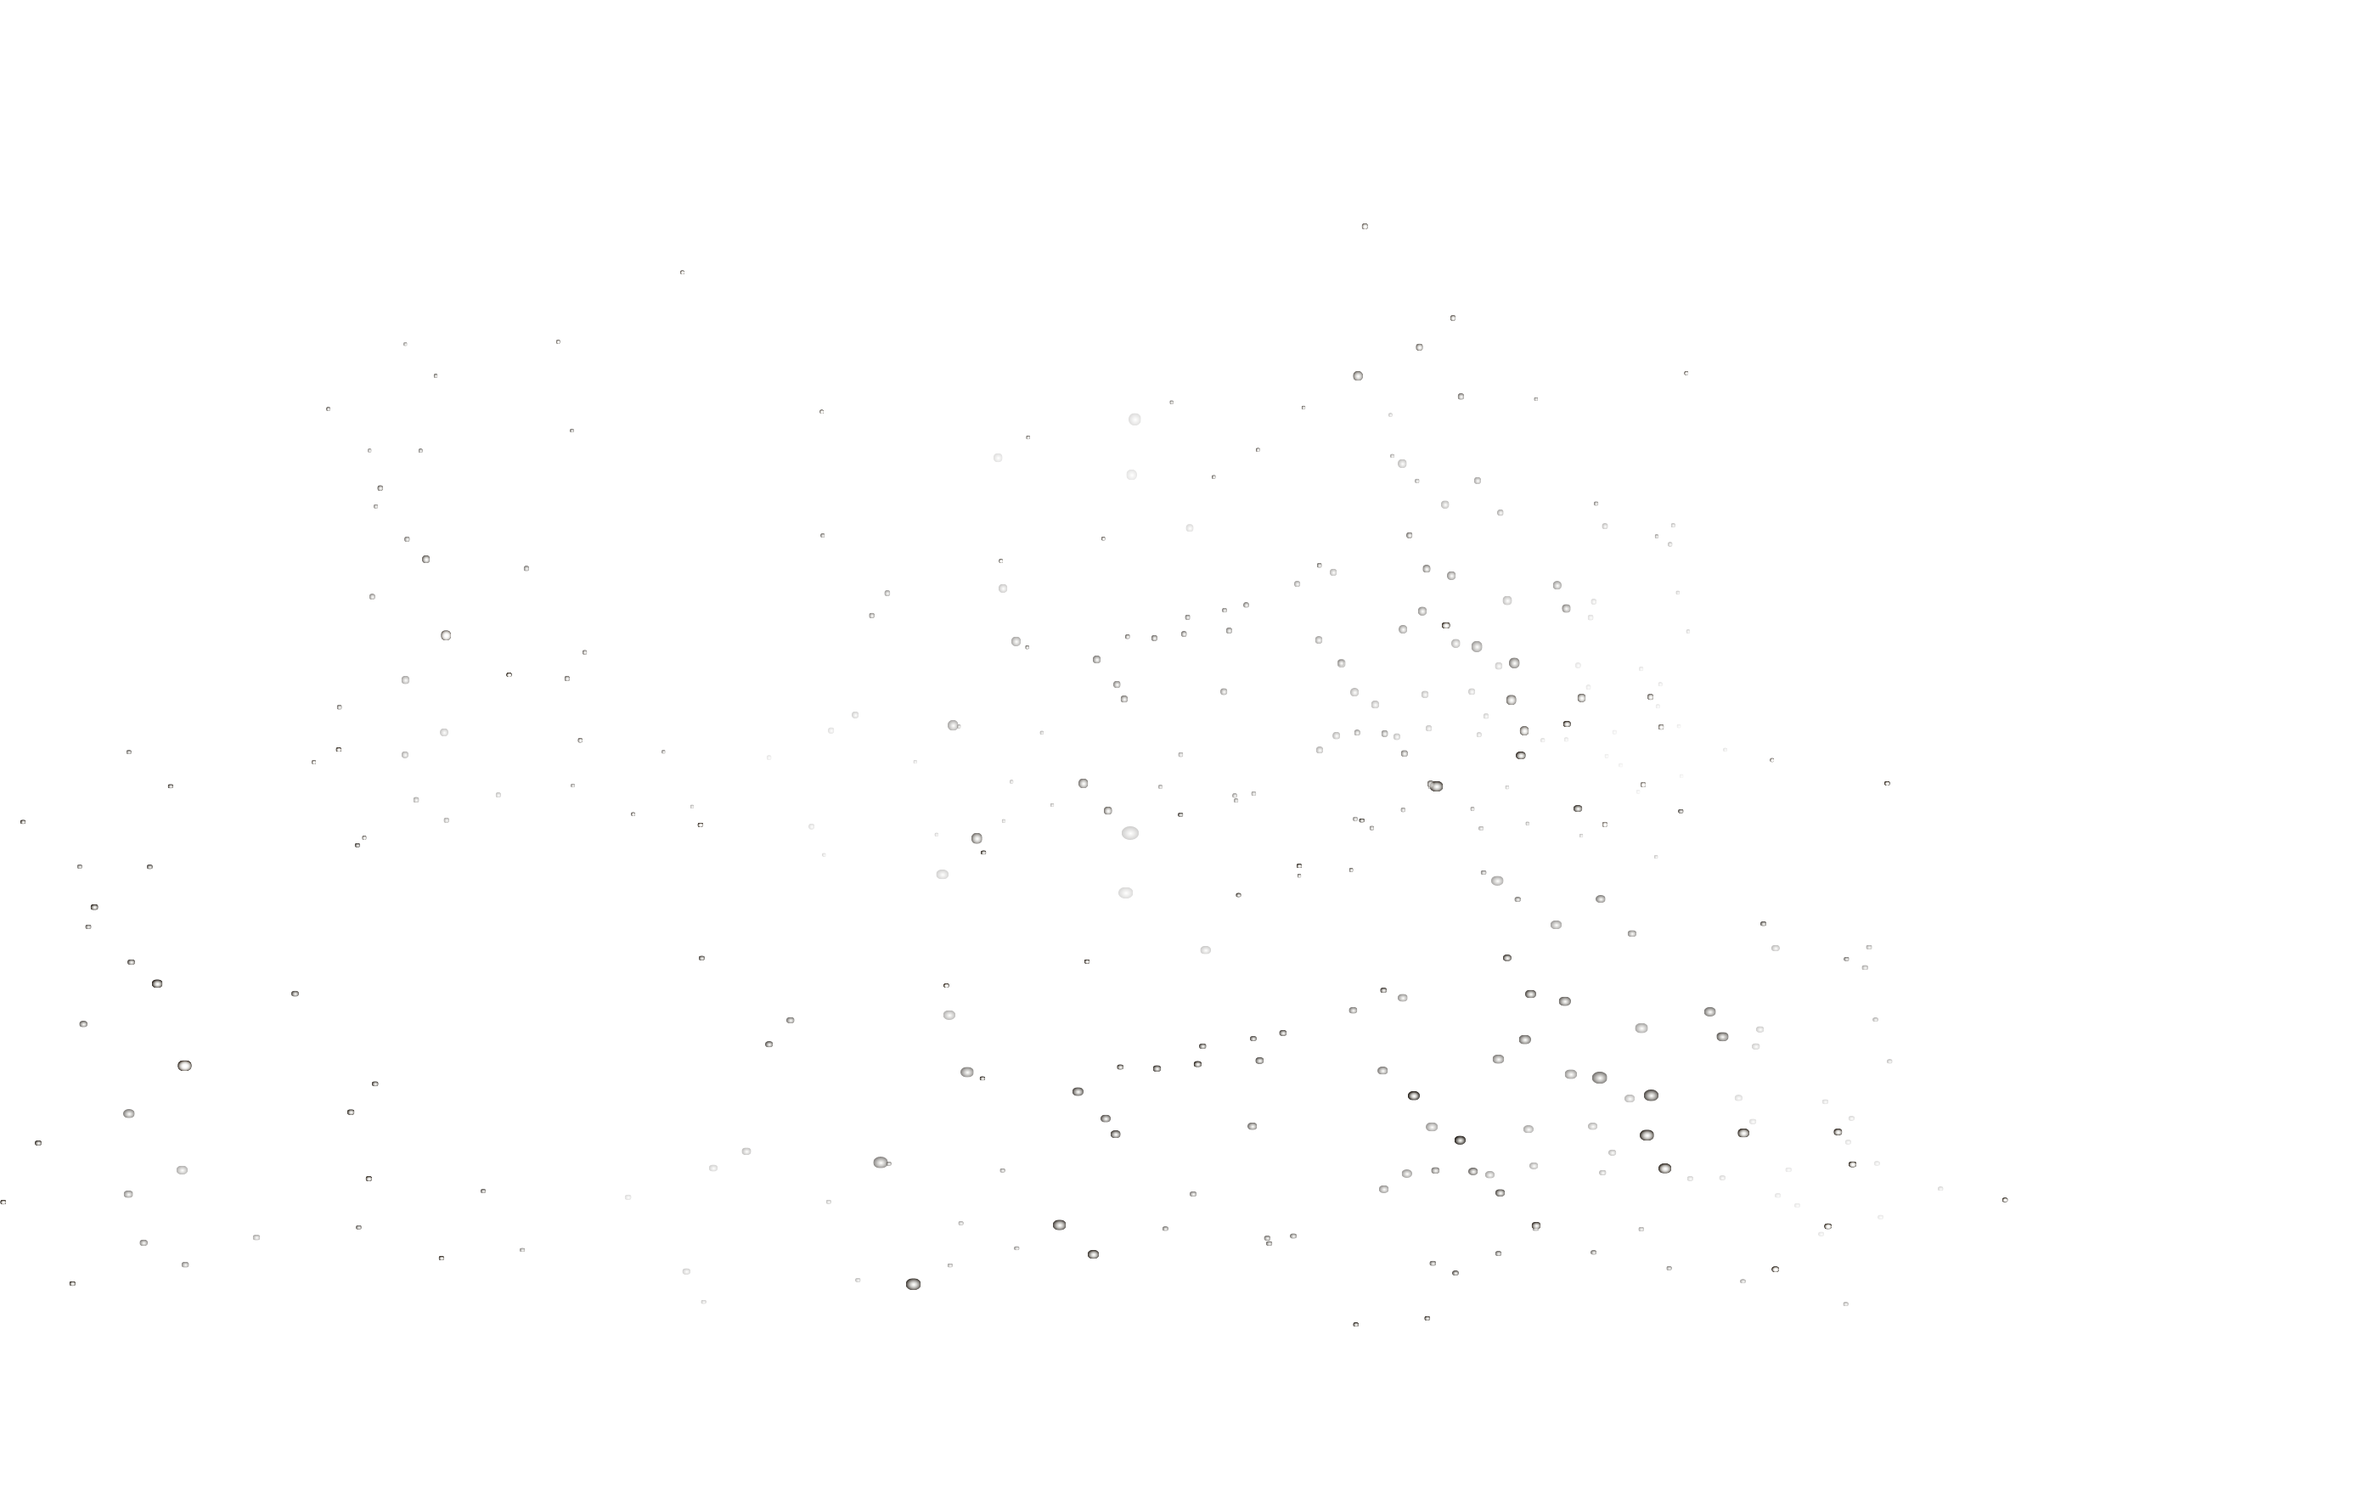
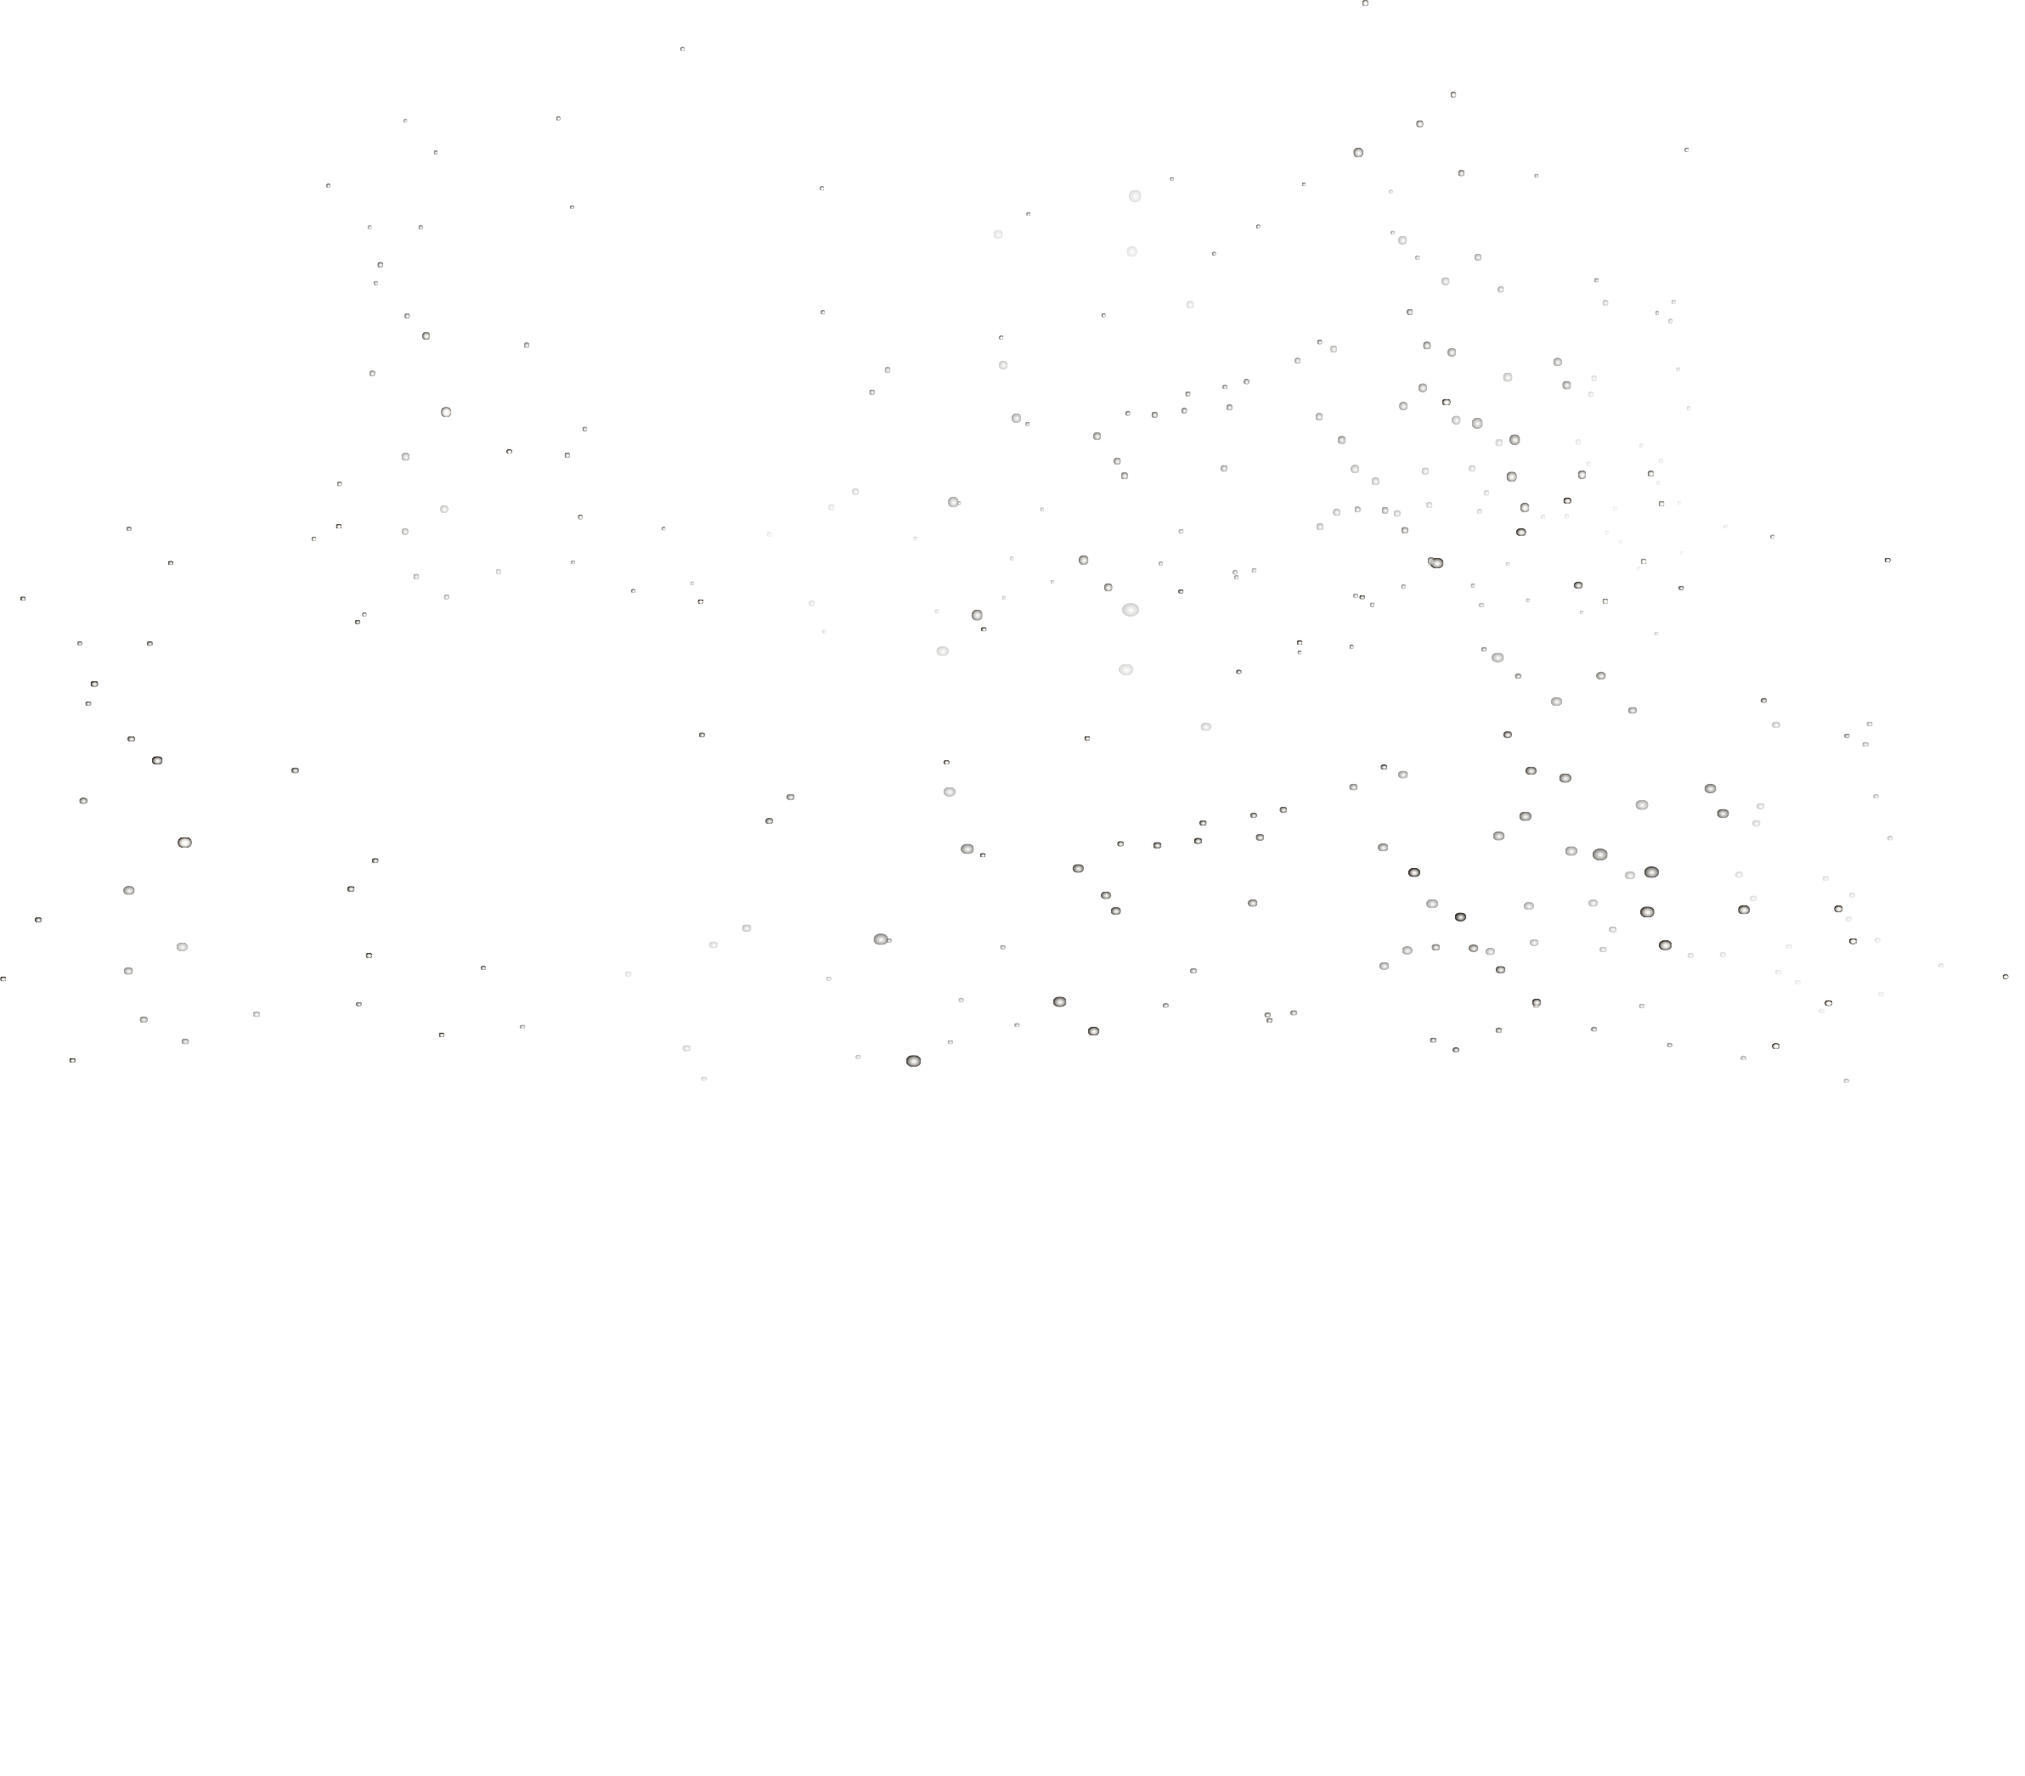
ajustes das estrelas

diff --git a/assets/css/4-pages/social.css b/assets/css/4-pages/social.css
@@ -15,5 +15,5 @@ body {
 	background-image: url(../../img/bg-social/terra.png), url(../../img/bg-social/lua.png),  url(../../img/bg-social/estrelas.png);
 	background-repeat: no-repeat, no-repeat, no-repeat;
 	background-position: center top, center bottom, center bottom;
-    background-size: 50% auto, 100% auto, auto auto;
+    background-size: 50% auto, 100% auto, 100% auto;
 }
